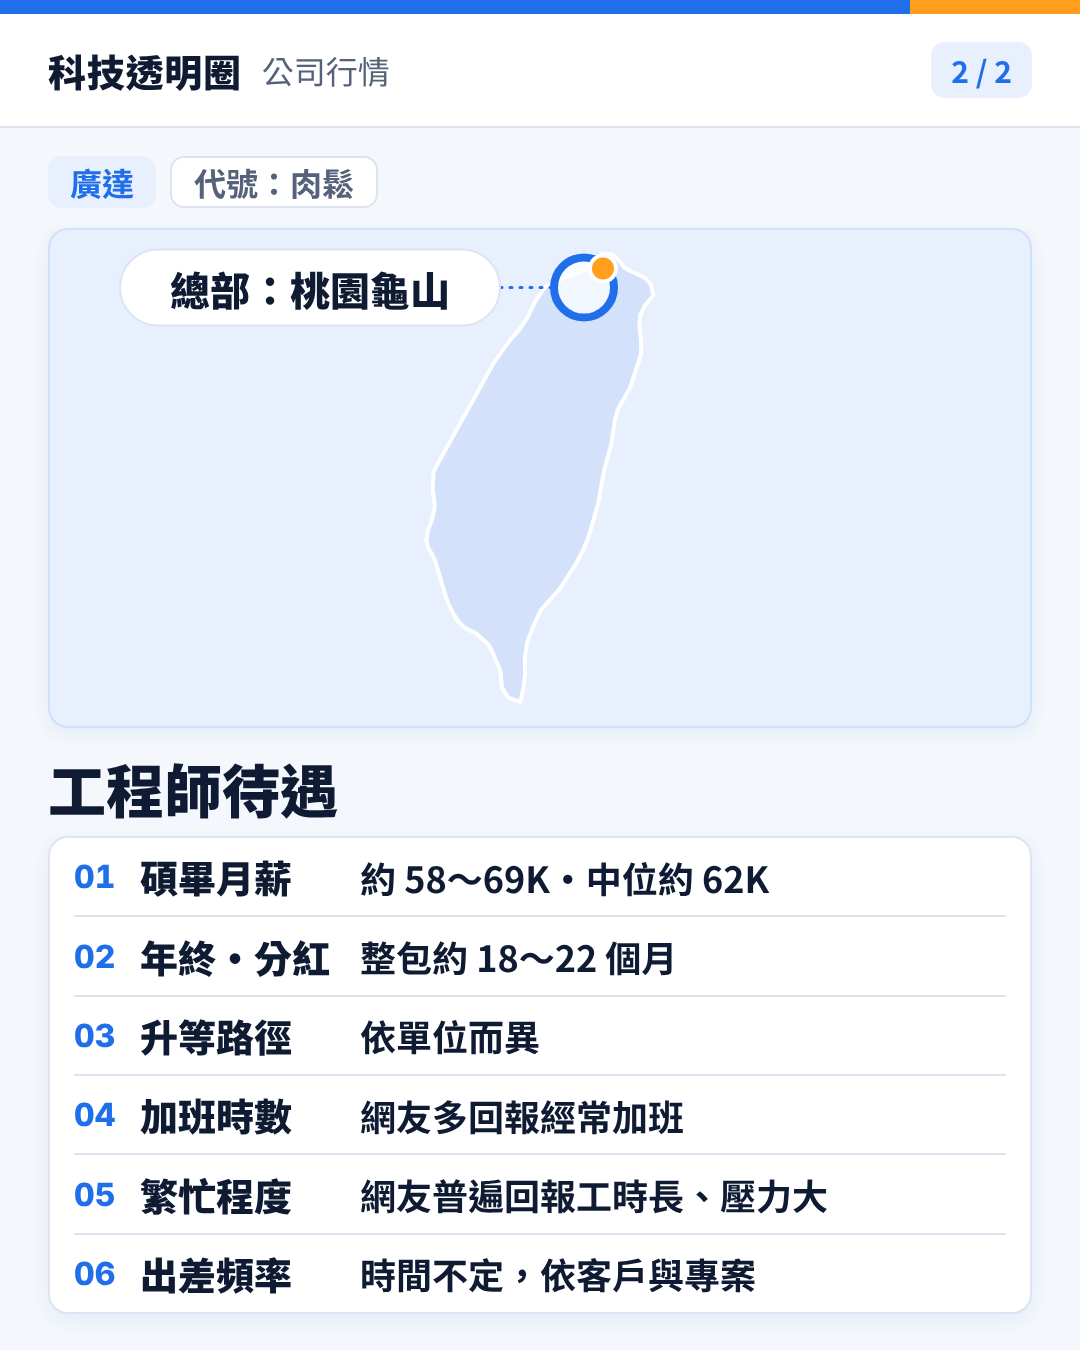
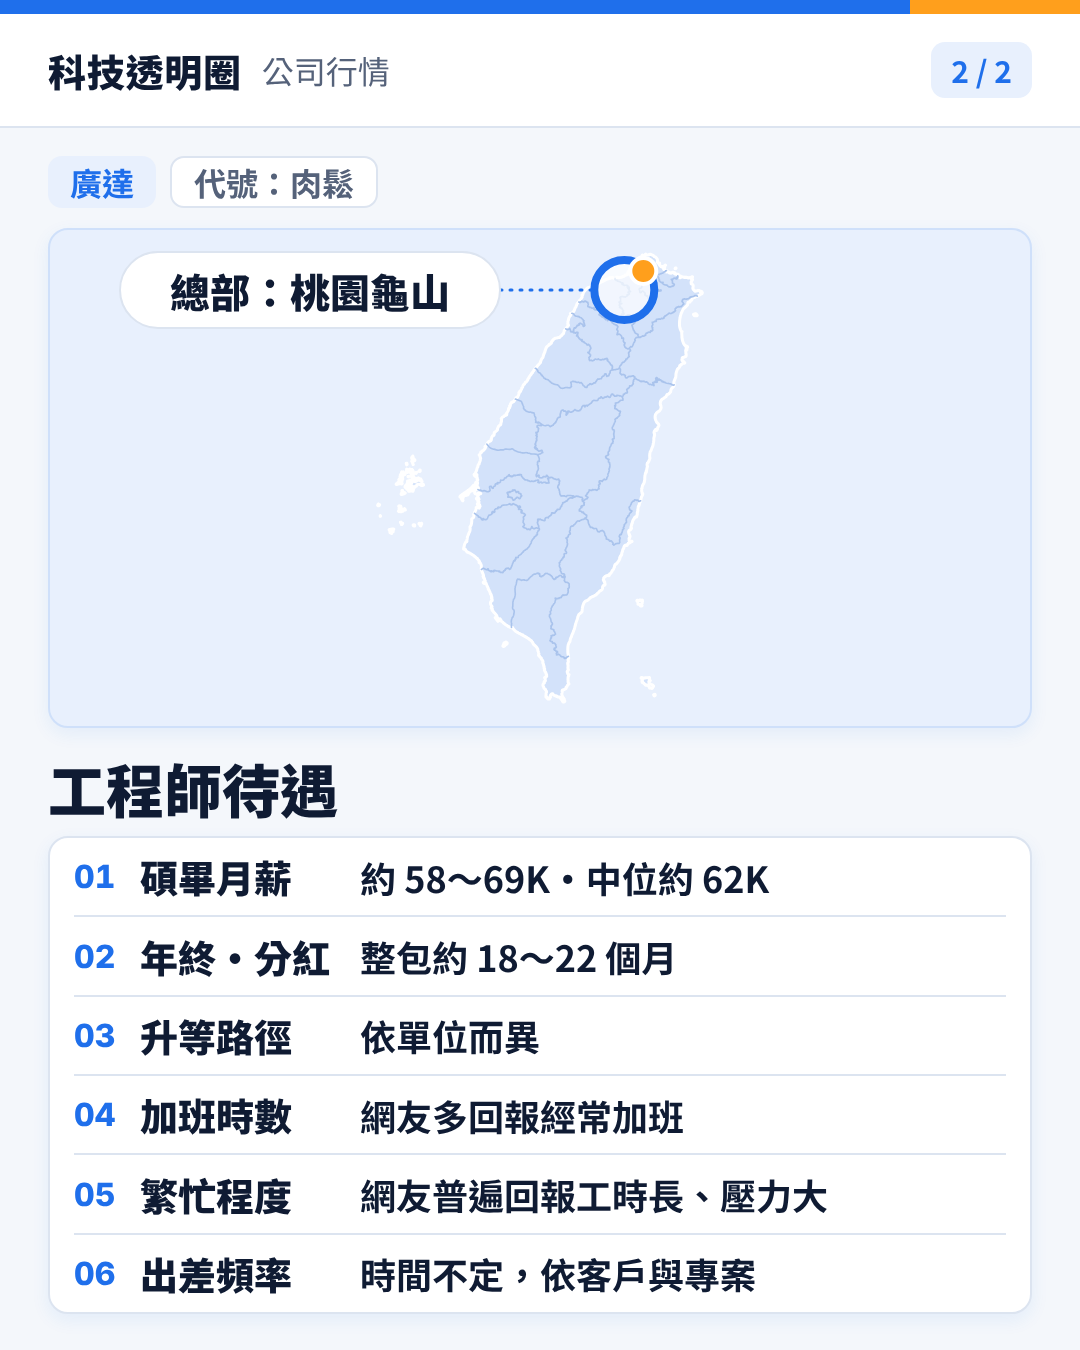
科技透明圈 廣達：封面改「廣達透明說」兩行＋右下輕量提示標籤、地圖改縣市界高解析含澎湖（Andy 11-06 第二輪）
Claude-Session: https://claude.ai/code/session_018gakVRNRsek4G6osuECGNS

diff --git a/docs/marketing/channels/tc/posts/20261105_quanta/render_quanta.py b/docs/marketing/channels/tc/posts/20261105_quanta/render_quanta.py
@@ -139,30 +139,33 @@ DISC = "網友回報，非公司公告・與各公司無合作或授權關係"
 
 # ================= 廣達待遇文（2 頁）：A1 封面＋A2 台灣地圖＋待遇表 =================
 NAME = "廣達"
-TAGLINE = os.environ.get("TC_TAGLINE") or "談薪前，先看這張"          # 頻道標語（暫定；Andy 還沒定稿，換字只改這一處，7～10 字都單行）
+TITLE_FMT = "{公司}透明說"            # 封面第一行大標（公司名＋透明說）
+HINT = os.environ.get("TC_HINT") or "大人才知道的那些事"   # 封面第二行（隱晦、不直白；Andy 還會從候選挑，7～10 字單行；法遵：不得出現內部／爆料／內幕／獨家／祕密）
 COVER_HINT = "右滑看透明圈"
 SECTION_TITLE = "工程師待遇"          # 欄位標題；若文章是特定單位，寫成「廣達 BU9 透明圈」
 HQ_LABEL = "總部：桃園龜山"
 S = {}
-TW = json.load(open(Path(__file__).resolve().parent / "taiwan_path.json"))   # world-atlas countries-50m（ISC／Natural Earth 公有領域）→ make_taiwan_path.mjs
+TW = json.load(open(Path(__file__).resolve().parent / "taiwan_path.json"))   # taiwan-atlas（MIT；內政部國土測繪中心縣市界線，政府資料開放授權條款第1版）→ make_taiwan_path.mjs
 
-# ---- 封面：標語＋標題＋「右滑」提示，三者在照片下緣到頁底之間垂直置中 ----
-TAG_PX, TT_PX = 48, 108
-# 提示鈕：藍色膠囊，右端白色圓盤放圓角箭頭（線＋箭頭帽），圓盤右上角一顆橘點（呼應 LOGO 的橘點），不用文字箭頭
+# ---- 封面：兩行標題在照片下方區塊垂直置中、靠左；「右滑看透明圈」輕量小標籤獨立貼右下角 ----
+TT_PX, HT_PX = 108, 60
+# 提示：白底細藍框圓角小標籤＋右側三個由淡到深的箭頭（›››，自繪 SVG，非文字箭頭）
 SWIPE = (f'<div class="sw"><span>{COVER_HINT}</span>'
-         f'<svg data-b width="76" height="76" viewBox="0 0 76 76"><circle cx="38" cy="38" r="36" fill="#fff"/>'
-         f'<path d="M20 38 H50 M40 26 L52 38 L40 50" fill="none" stroke="{BLUE}" stroke-width="7" stroke-linecap="round" stroke-linejoin="round"/>'
-         f'<circle cx="62" cy="14" r="9" fill="{ORG}" stroke="#fff" stroke-width="3"/></svg></div>')
+         f'<svg data-b width="64" height="36" viewBox="0 0 64 36" fill="none" stroke-linecap="round" stroke-linejoin="round" stroke-width="6">'
+         f'<path d="M6 6 L18 18 L6 30" stroke="{BLUE}" stroke-opacity=".3"/><path d="M26 6 L38 18 L26 30" stroke="{BLUE}" stroke-opacity=".6"/>'
+         f'<path d="M46 6 L58 18 L46 30" stroke="{BLUE}"/></svg></div>')
+SW_R, SW_B, SW_H = M_L, 40, 72      # 小標籤右緣與標題左緣同邊距 60、底距 40、高 72
+LOW_TOP = PIC_TOP + PIC_H
 SWIPE_CSS = f"""
-.cv .low{{position:absolute;left:{M_L}px;top:{PIC_TOP+PIC_H}px;width:{W-2*M_L}px;height:{H-PIC_TOP-PIC_H}px;display:flex;align-items:center;justify-content:space-between}}
-.cv .tg{{font-size:{TAG_PX}px;font-weight:700;line-height:64px;margin-bottom:16px;color:{INK};white-space:nowrap}}
+.cv .low{{position:absolute;left:{M_L}px;top:{LOW_TOP}px;width:{W-2*M_L}px;height:{H-LOW_TOP-SW_B-SW_H-16}px;display:flex;flex-direction:column;justify-content:center}}
 .cv .nm{{font-size:{TT_PX}px;font-weight:900;line-height:132px;color:{BLUE};white-space:nowrap}}
-.cv .sw{{display:flex;align-items:center;gap:18px;height:92px;padding:0 8px 0 34px;border-radius:46px;background:{BLUE};color:#fff;font-size:34px;font-weight:700;white-space:nowrap;box-shadow:{SHADOW}}}
+.cv .tg{{font-size:{HT_PX}px;font-weight:700;line-height:80px;margin-top:16px;color:{INK};white-space:nowrap}}
+.cv .sw{{position:absolute;right:{SW_R}px;bottom:{SW_B}px;height:{SW_H}px;display:flex;align-items:center;gap:14px;padding:0 24px 0 28px;border-radius:{SW_H//2}px;background:#fff;border:3px solid {BLUE};color:{BLUE};font-size:32px;font-weight:700;white-space:nowrap}}
 .cv .sw svg{{display:block}}
 """
 S["1_cover"] = (f'<div class="cv"><div class="hd"></div><div class="strip"><i></i></div><div class="lg">{OPEN_RING}</div>'
     f'<div class="pic" data-b style="background-image:url({photo_uri_abs(Path(__file__).resolve().parent / "cover_photo.jpg")});background-position:50% 50%"></div>'
-    f'<div class="low"><div><div class="tg">{TAGLINE}</div><div class="nm">{NAME}行情</div></div>{SWIPE}</div></div>')
+    f'<div class="low"><div class="nm">{TITLE_FMT.format(公司=NAME)}</div><div class="tg">{HINT}</div></div>{SWIPE}</div>')
 
 # ---- 待遇表：上半台灣地圖＋總部位置，下半「工程師待遇」6 欄（欄名＋重點值，不放備註） ----
 rows = [
@@ -178,7 +181,7 @@ trs = "".join(f'<div class="rw" style="display:flex;align-items:center;flex:1;bo
               f'<div style="width:220px;font-size:38px;font-weight:800;white-space:nowrap">{a}</div>'
               f'<div style="flex:1;min-width:0;font-size:36px;font-weight:700;white-space:nowrap">{b}</div></div>' for i, (a, b) in enumerate(rows))
 MAP_W, MAP_H = 980, 496           # 地圖 svg 尺寸（卡片 984x500 扣 2px 邊框；body 左右各 48）
-IS_H = 448                        # 台灣本島高度（寬依比例）
+IS_H = 448                        # 台灣（含澎湖）高度，寬依比例
 IS_W = IS_H * TW["w"] / TW["h"]
 IS_X, IS_Y = (MAP_W - IS_W) / 2, (MAP_H - IS_H) / 2   # 本島左上角（置中）
 k = IS_H / TW["h"]
@@ -186,7 +189,8 @@ PX_, PY_ = IS_X + TW["pt"][0] * k, IS_Y + TW["pt"][1] * k   # 龜山點位
 LBL_W, LBL_H = 380, 76
 LBL_X, LBL_Y = 70, PY_ - LBL_H / 2
 MAP_SVG = (f'<svg data-b width="{MAP_W}" height="{MAP_H}" viewBox="0 0 {MAP_W} {MAP_H}" style="display:block">'
-    f'<g transform="translate({IS_X:.1f} {IS_Y:.1f}) scale({k:.5f})"><path d="{TW["d"]}" fill="#D3E2FA" stroke="#fff" stroke-width="{4/k:.1f}" stroke-linejoin="round"/></g>'
+    f'<g transform="translate({IS_X:.1f} {IS_Y:.1f}) scale({k:.5f})"><path d="{TW["land"]}" fill="#D3E2FA" stroke="#fff" stroke-width="{3/k:.1f}" stroke-linejoin="round"/>'
+    f'<path d="{TW["borders"]}" fill="none" stroke="#A9C3EC" stroke-width="{1.6/k:.1f}" stroke-linejoin="round" stroke-linecap="round"/></g>'
     f'<line x1="{LBL_X+LBL_W}" y1="{PY_:.1f}" x2="{PX_-30:.1f}" y2="{PY_:.1f}" stroke="{BLUE}" stroke-width="3" stroke-dasharray="2 8" stroke-linecap="round"/>'
     f'<circle cx="{PX_:.1f}" cy="{PY_:.1f}" r="30" fill="#fff" fill-opacity=".7" stroke="{BLUE}" stroke-width="8"/>'
     f'<circle cx="{PX_+19:.1f}" cy="{PY_-19:.1f}" r="13" fill="{ORG}" stroke="#fff" stroke-width="4"/>'

diff --git a/docs/marketing/channels/tc/posts/20261105_quanta/image_sources.md b/docs/marketing/channels/tc/posts/20261105_quanta/image_sources.md
@@ -10,6 +10,9 @@
 - 照片解析度僅 640×427，放大約 1.6 倍，略軟；若 Andy 找到原始頁面的大圖，換檔重出即可。
 - 封面不放我方公司 LOGO；照片裡建築上的「Quanta」立體字是實景，不算我方放的 LOGO。
 
-## 2026-11-06 第 2 張台灣地圖
-- 本島輪廓：npm 套件 `world-atlas@2.0.2`（ISC 授權，© Michael Bostock；資料來自 Natural Earth，公有領域）的 `countries-50m.json`，取 Taiwan 的本島多邊形，用 `make_taiwan_path.mjs`（topojson-client＋d3-geo 麥卡托）轉成 `taiwan_path.json`。非 AI 繪製、非手描。
+## 2026-11-06 第 2 張台灣地圖（第二版，取代 world-atlas 版）
+- 海岸線與縣市界線：npm `taiwan-atlas@2021.9.20`（MIT 授權，© Daniel Kao）的 `counties-10t.json`，用 `make_taiwan_path.mjs`（topojson-client＋d3-geo 麥卡托）轉成 `taiwan_path.json`；含本島、澎湖與周邊小島，不含金門、連江。非 AI 繪製、非手描。
+- 原始資料：內政部國土測繪中心「直轄市、縣市界線(TWD97經緯度)」（data.gov.tw），授權方式為政府資料開放授權條款－第 1 版（使用須標示來源；同機關同系列資料集頁面皆標示此授權，本資料集頁面本身未能直接開啟，為推定，標「待法遵確認」）。
+- 文案署名（貼文最後一行）：「地圖資料：內政部國土測繪中心（政府資料開放授權條款第1版）」。
+- 為什麼不用 world-atlas：海岸線與縣市線要同一份資料才對得齊；world-atlas 沒有縣市界。
 - 總部點位：桃園龜山，北緯 25.03、東經 121.36（同一投影算出）。
